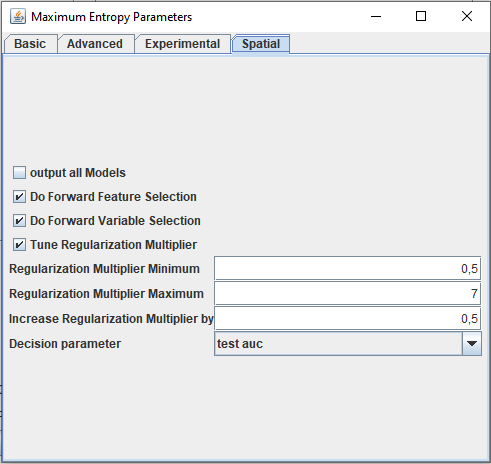
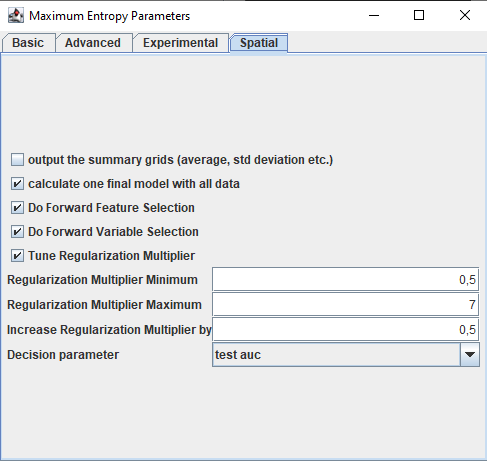
adapt tutorial to new model settings

Changed region(s): [[0.0, 0.0, 1.0, 1.0]]

diff --git a/docs/_docs/090_spatialMaxent_short_introduction.md b/docs/_docs/090_spatialMaxent_short_introduction.md
@@ -9,7 +9,7 @@ This page serves as a short introduction to spatialMaxent before we will start d
 
 ### The data structure
 
-First of all the data structure changes slightly insofar as it is necessary to provide the samples file with a fourth column containing the association of each point with a spatial fold as integer value. If the SWD data format is chosen also the environmental layers .csv file needs to have an additional column for the folds, but no values are required here.
+First of all the data structure changes slightly insofar as it is necessary to provide the samples file with a fourth column containing the association of each point with a spatial fold as integer value. If the SWD data format is chosen also the environmental layers .csv file needs to have an additional column for the folds, but no values are required here. Note that in spatialMaxent contrary to Maxent the processing of several species at once from the same samples file is not supported.
 
 The csv file we created on the previous pages are already in the right format. The first three columns contain the species, longitude and latitude and the fourth the folds created with the [blockCV package]( https://cran.r-project.org/web/packages/blockCV/index.html). After these mandatory columns all columns with environmental information follow. This should look like this:
 
@@ -28,7 +28,7 @@ The nice thing about spatialMaxent is that all tuning tasks are available at onc
 
 ### Forward Variable Selection (FVS)
 
-The `Forward Variable Selection` as designed by [Meyer et al. (2018)](https://doi.org/10.1016/j.envsoft.2017.12.001) is a variable selection method particularly designed for spatial data. FFS trains all possible 2 variable combinations, choses the best one and then trains these two variables together with each of the remaining variables and repeats this step until the models show no increase in performance.
+The `Forward Variable Selection` as designed by [Meyer et al. (2018)](https://doi.org/10.1016/j.envsoft.2017.12.001) is a variable selection method particularly designed for spatial data. FFS trains all possible 2 variable combinations, choses the best one and then trains these two variables together with each of the remaining variables and repeats this step until the models show no increase in performance. FVS will be run in parallel if threads>1
 
 ### Forward Feature Selection (FFS)
 The `Forward Feature Selection` follows the same structure as the FVS. It trains one model with each feature (hinge, linear, threshold, product, quadratic). Then the best one is chosen and the other features are tested in combination with it until no increase in model performance is observed. Note that the setting of features in the main maxent tab (`Auto features`, `Hinge features`, etc.) will be ignored by spatialMaxent if an FFS is done as all features are tested one after another.
@@ -40,12 +40,15 @@ Which model is the best one can be either determined based on the `test gain` or
 
 
 ![]({{ site.baseurl }}/assets/images/settings2.png)
-#### The `allModels` setting
-You can set the `allModels`setting to true if you want to generate output not only for the last model with the selected variables, features and regularization multiplier but for each step of the FFS, FVS and regularization multiplier tuning. **Be very careful with this setting!** If it is set to true depending on your input data huge amounts of data will be generated and the processing time will increase considerably. It is not recommended for the output of large rasters and high amount of variables.
+#### Optional output of summarized grids
+With the setting `cvGrids ` it is possible to omit the output of the summarized html page and grids of cross-validation or spatial cross-validation. The grids average, max, median, min and stddev will not be written to disc if this parameter is set to false.
+
+#### Calculate a final Model
+The setting `finalModel ` can be used to train one model at the end with the selected variables, the selected features and the selected regularization-multiplier and all presence records. 
 
 
 #### general notes
-The FFS, FVS and regularization multiplier tuning all have large processing times. Especially if the FVS is done and there are lots of input variables alone in the first step of the FFS this can lead to a large amount of models to be trained if the input consists of 10 variables 45 models are trained in the first step of the FVS if it consists of 20 variables it increases to 190 models. Just keep in mind, that the whole process can take a while. In this case consider trying out the parallel processing of these processes by setting `threads` larger than 1.
+The FFS, FVS and regularization multiplier tuning all have large processing times. Especially if the FVS is done and there are lots of input variables alone in the first step of the FVS this can lead to a large amount of models to be trained if the input consists of 10 variables 45 models are trained in the first step of the FVS if it consists of 20 variables it increases to 190 models. Just keep in mind, that the whole process can take a while. In this case consider trying out the parallel processing of the FVS by setting `threads` larger than 1.
  
 If you are working on the command line these are the parameters to use:
 
@@ -57,5 +60,5 @@ If you are working on the command line these are the parameters to use:
 |RMMin| double| 0.5|
 |RMMax| double| 7|
 |RMIncrease| double| 0.5|
-|allModels|boolean|false|
-
+|cvGrids|boolean|false|
+|finalModel|boolean|true|
